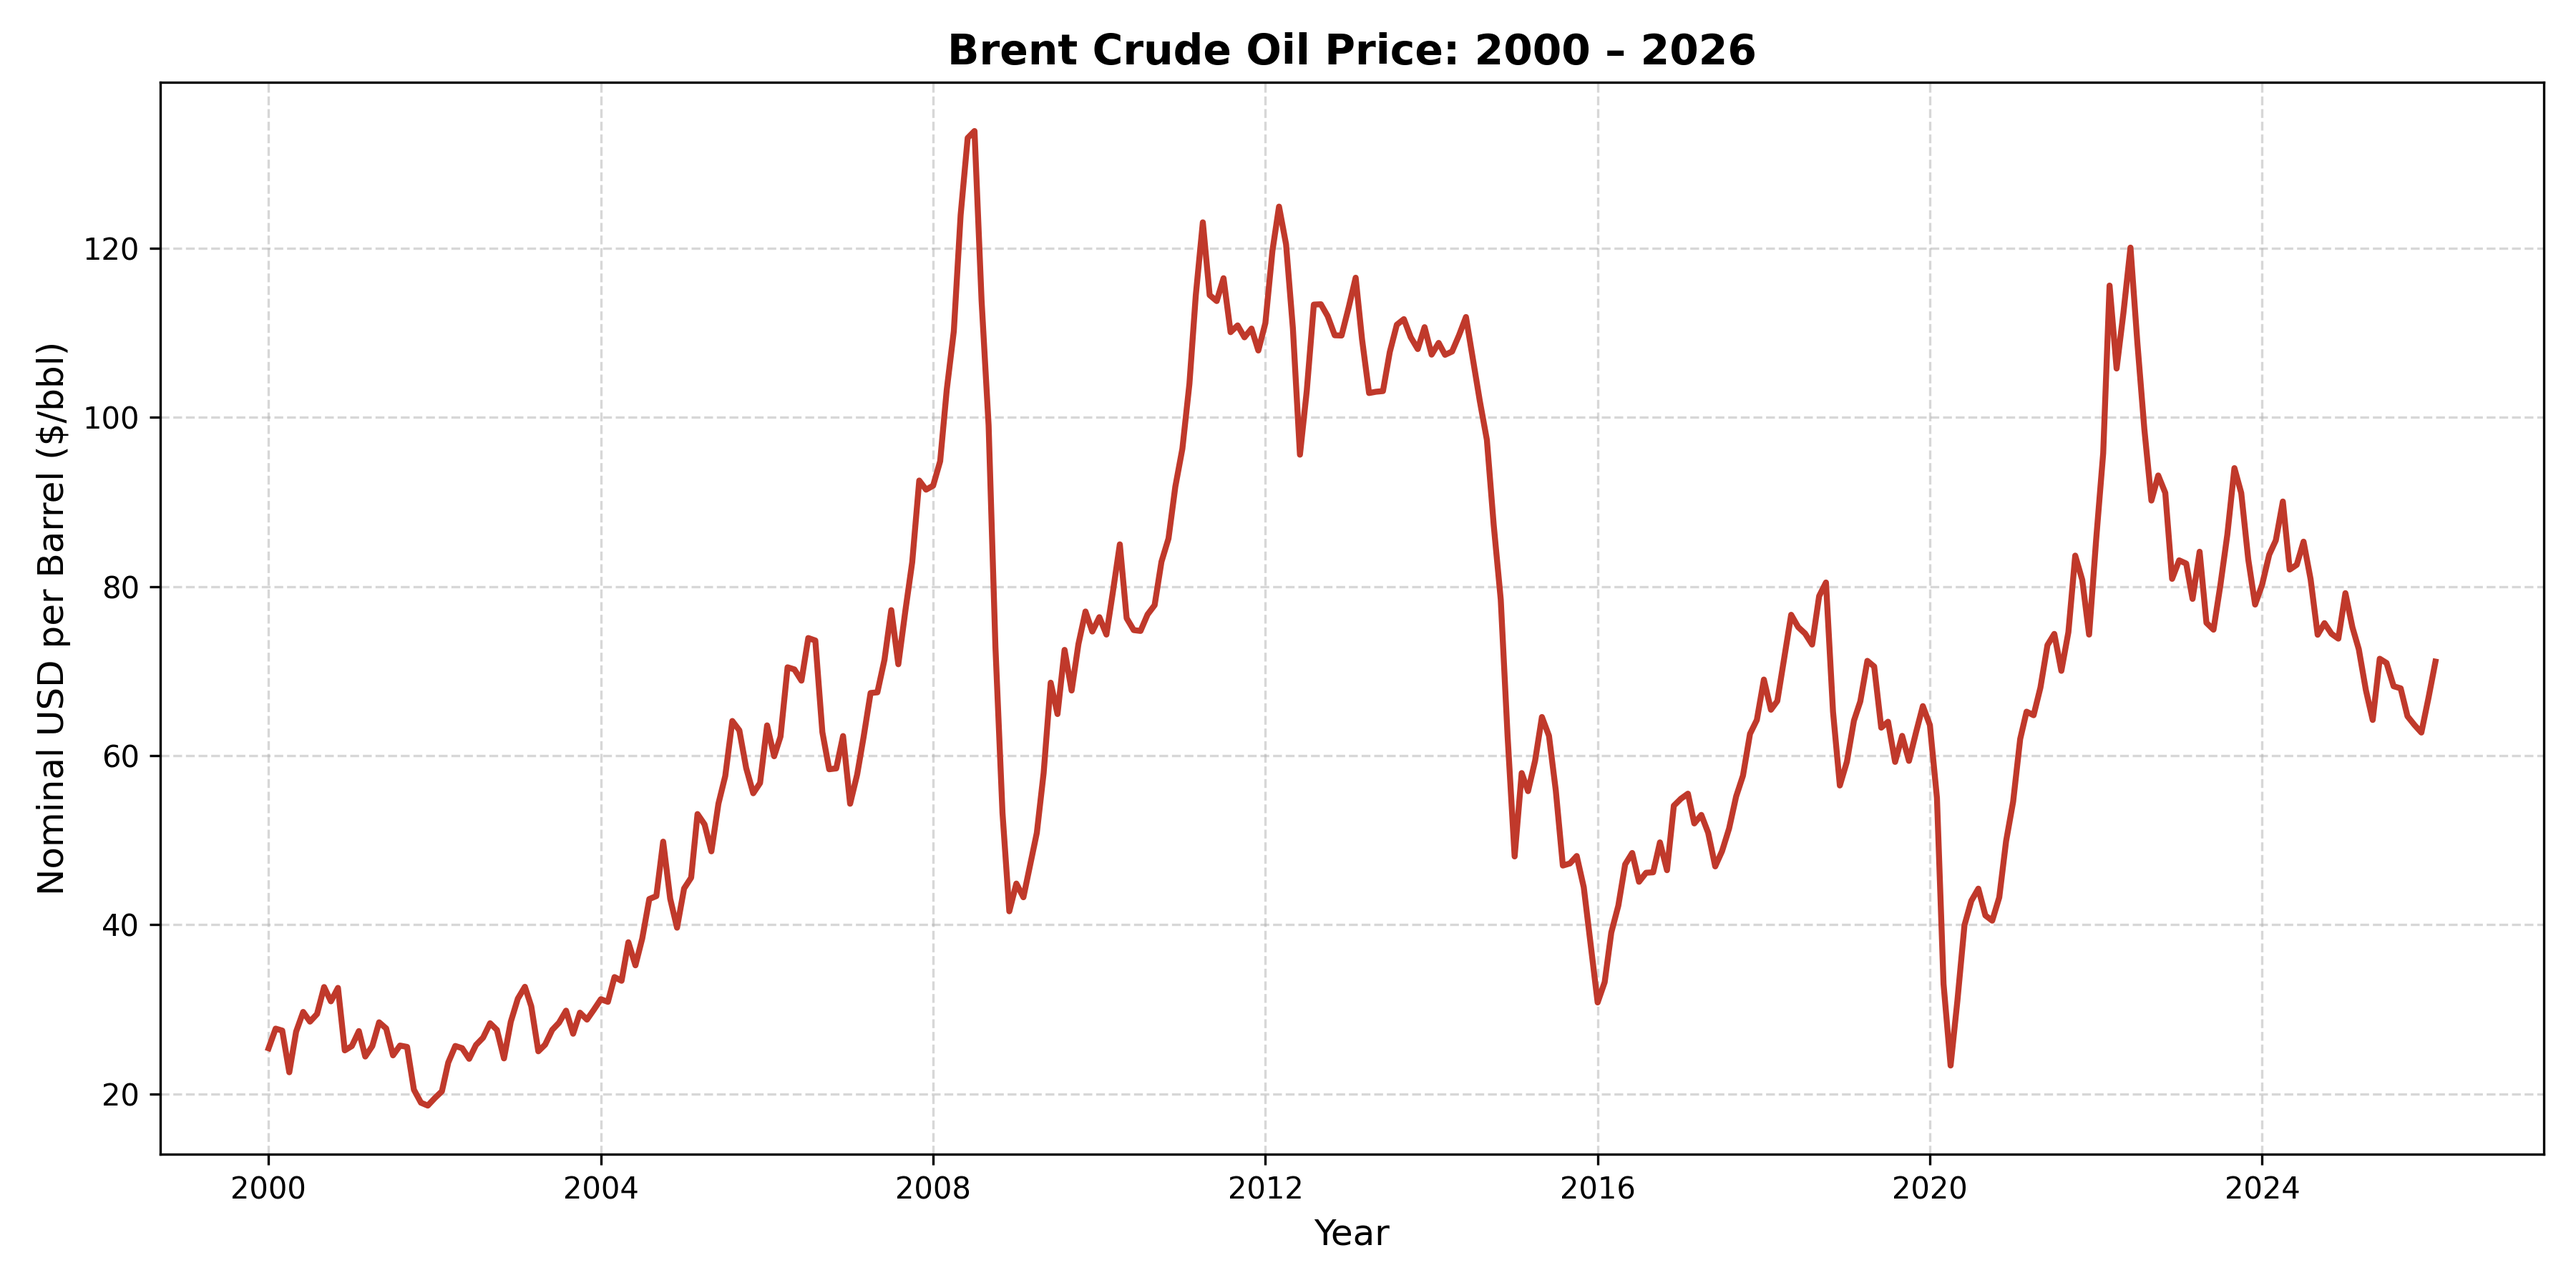
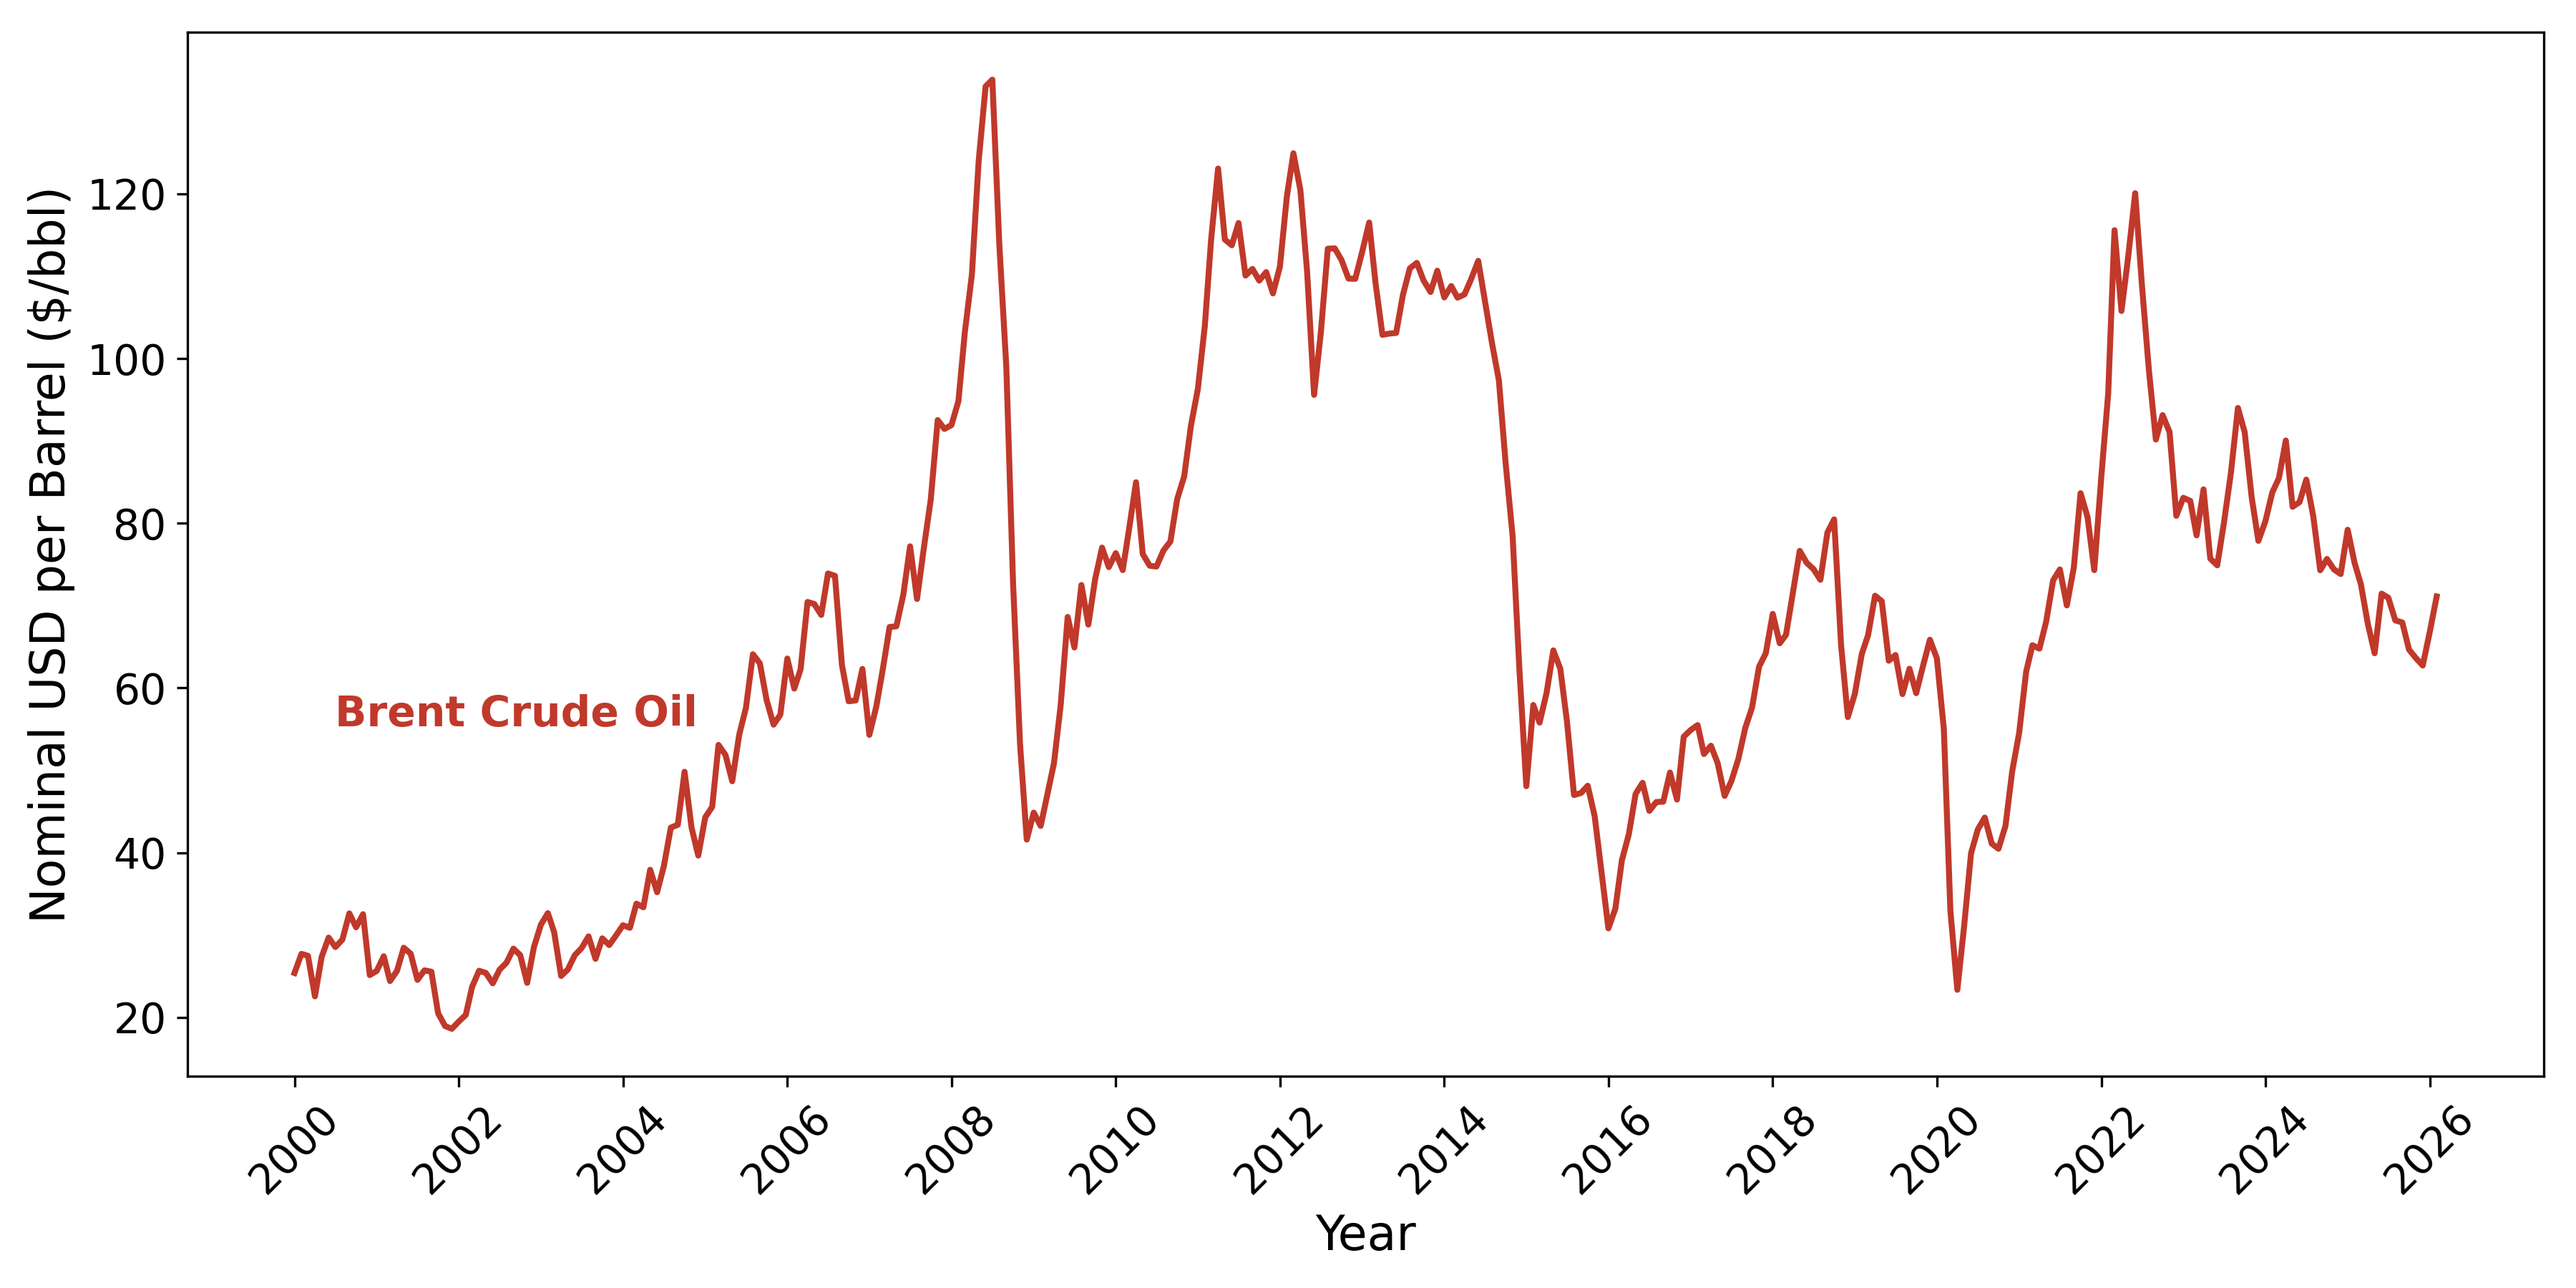
added new overlayed plot and changed others

diff --git a/GasPrices_2000-present.py b/GasPrices_2000-present.py
@@ -1,5 +1,6 @@
 import pandas as pd
 import matplotlib.pyplot as plt
+import matplotlib.dates as mdates
 
 # 1. Load the data
 file_path = '/Users/dannysalingerbrown/Desktop/Energy-Graphs-Misc/data/WorldBank_Commodity_Monthly.csv' 
@@ -10,7 +11,6 @@ df = df.rename(columns={df.columns[0]: 'Date'})
 df['Date'] = pd.to_datetime(df['Date'].str.replace('M', '-'), errors='coerce')
 
 # Target the US Natural Gas column specifically (Henry Hub)
-# Using the exact name from the World Bank dataset
 gas_col = 'Natural gas, US'
 df[gas_col] = pd.to_numeric(df[gas_col], errors='coerce')
 
@@ -21,30 +21,62 @@ df_filtered = df[df['Date'] >= '2000-01-01'].dropna(subset=[gas_col]).copy()
 # Using the standard energy density factor of 1.038 MMBtu per Mcf
 df_filtered['Gas_Mcf'] = df_filtered[gas_col] * 1.038
 
+# --- Grab the starting coordinates for our text labels ---
+# We use the very first date in the filtered dataset, plus a small date shift 
+label_x_date = df_filtered['Date'].iloc[0] + pd.Timedelta(days=180) 
+start_price_mmbtu = df_filtered[gas_col].iloc[0]
+start_price_mcf = df_filtered['Gas_Mcf'].iloc[0]
+
 # 4. Create and Save Graph 1 ($/MMBtu)
 plt.figure(figsize=(12, 6))
 plt.plot(df_filtered['Date'], df_filtered[gas_col], color='#2980b9', linewidth=2)
-plt.title('US Natural Gas Price (Henry Hub): 2000 – 2026', fontsize=14, fontweight='bold')
-plt.ylabel('Nominal USD per MMBtu ($/MMBtu)', fontsize=12)
-plt.xlabel('Year', fontsize=12)
-plt.grid(True, linestyle='--', alpha=0.5)
-plt.tight_layout()
 
-# Saving to your project folder
-plt.savefig('/Users/dannysalingerbrown/Desktop/Energy-Graphs-Misc/natgas_price_mmbtu.png', dpi=300)
+# Add text label above the start of the line (offset by +1 for the MMBtu scale)
+plt.text(label_x_date, start_price_mmbtu-1, 'Natural Gas (Henry Hub)', 
+         color='#2980b9', fontsize=14, fontweight='bold')
+
+# Set axis labels to be larger
+plt.ylabel('Nominal USD per MMBtu ($/MMBtu)', fontsize=16)
+plt.xlabel('Year', fontsize=16)
+
+# Format x-axis ticks: Every 2 years
+ax = plt.gca()
+ax.xaxis.set_major_locator(mdates.YearLocator(2))
+ax.xaxis.set_major_formatter(mdates.DateFormatter('%Y'))
+
+# Slant x-axis labels and make all tick markers larger
+plt.xticks(rotation=45)
+plt.tick_params(axis='both', which='major', labelsize=14)
+
+plt.tight_layout()
+# Save with transparent background
+plt.savefig('/Users/dannysalingerbrown/Desktop/Energy-Graphs-Misc/natgas_price_mmbtu.png', dpi=300, transparent=True)
 plt.show()
 
 # 5. Create and Save Graph 2 ($/Mcf)
 plt.figure(figsize=(12, 6))
 plt.plot(df_filtered['Date'], df_filtered['Gas_Mcf'], color='#27ae60', linewidth=2)
-plt.title('US Natural Gas Price ($/Mcf): 2000 – 2026', fontsize=14, fontweight='bold')
-plt.ylabel('Nominal USD per Thousand Cubic Feet ($/Mcf)', fontsize=12)
-plt.xlabel('Year', fontsize=12)
-plt.grid(True, linestyle='--', alpha=0.5)
-plt.tight_layout()
 
-# Saving to your project folder
-plt.savefig('/Users/dannysalingerbrown/Desktop/Energy-Graphs-Misc/natgas_price_mcf.png', dpi=300)
+# Add text label above the start of the line (offset by +1 for the Mcf scale)
+plt.text(label_x_date, start_price_mcf-1, 'Natural Gas (Henry Hub)', 
+         color='#27ae60', fontsize=14, fontweight='bold')
+
+# Set axis labels to be larger
+plt.ylabel('Nominal USD per Thousand Cubic Feet ($/Mcf)', fontsize=16)
+plt.xlabel('Year', fontsize=16)
+
+# Format x-axis ticks: Every 2 years
+ax2 = plt.gca()
+ax2.xaxis.set_major_locator(mdates.YearLocator(2))
+ax2.xaxis.set_major_formatter(mdates.DateFormatter('%Y'))
+
+# Slant x-axis labels and make all tick markers larger
+plt.xticks(rotation=45)
+plt.tick_params(axis='both', which='major', labelsize=14)
+
+plt.tight_layout()
+# Save with transparent background
+plt.savefig('/Users/dannysalingerbrown/Desktop/Energy-Graphs-Misc/natgas_price_mcf.png', dpi=300, transparent=True)
 plt.show()
 
 # Verify the final data points

diff --git a/CoalPrices_2000-present.py b/CoalPrices_2000-present.py
@@ -1,5 +1,6 @@
 import pandas as pd
 import matplotlib.pyplot as plt
+import matplotlib.dates as mdates
 
 # 1. Load the data
 file_path = '/Users/dannysalingerbrown/Desktop/Energy-Graphs-Misc/data/WorldBank_Commodity_Monthly.csv' 
@@ -16,30 +17,63 @@ df_filtered = df[df['Date'] >= '2000-01-01'].dropna(subset=['Coal, Australian'])
 # New conversion: $/mt divided by 20 MMBtu/mt
 df_filtered['Coal_MMBtu'] = df_filtered['Coal, Australian'] / 20
 
+# --- Grab the starting coordinates for our text labels ---
+# We will use the very first date in the filtered dataset, plus a small date shift 
+# so it doesn't hug the y-axis too tightly.
+label_x_date = df_filtered['Date'].iloc[0] + pd.Timedelta(days=180) 
+start_price_tonne = df_filtered['Coal, Australian'].iloc[0]
+start_price_mmbtu = df_filtered['Coal_MMBtu'].iloc[0]
+
 # 4. Create and Save Graph 1 ($/tonne)
 plt.figure(figsize=(12, 6))
 plt.plot(df_filtered['Date'], df_filtered['Coal, Australian'], color='#e67e22', linewidth=2)
-plt.title('Newcastle Coal Price Index: 2000 – 2026', fontsize=14, fontweight='bold')
-plt.ylabel('Nominal USD per Metric Ton ($/tonne)', fontsize=12)
-plt.xlabel('Year', fontsize=12)
-plt.grid(True, linestyle='--', alpha=0.5)
-plt.tight_layout()
 
-# Saving to your project folder
-plt.savefig('/Users/dannysalingerbrown/Desktop/Energy-Graphs-Misc/coal_price_tonne.png', dpi=300)
+# Add text label above the start of the line (offset by +15 for the tonne scale)
+plt.text(label_x_date, start_price_tonne + 40, 'Coal (Newcastle Index)', 
+         color='#e67e22', fontsize=14, fontweight='bold')
+
+# Set axis labels to be larger
+plt.ylabel('Nominal USD per Metric Ton ($/tonne)', fontsize=16)
+plt.xlabel('Year', fontsize=16)
+
+# Format x-axis ticks: Every 2 years
+ax = plt.gca()
+ax.xaxis.set_major_locator(mdates.YearLocator(2))
+ax.xaxis.set_major_formatter(mdates.DateFormatter('%Y'))
+
+# Slant x-axis labels and make all tick markers larger
+plt.xticks(rotation=45)
+plt.tick_params(axis='both', which='major', labelsize=14)
+
+plt.tight_layout()
+# Added transparent=True here
+plt.savefig('/Users/dannysalingerbrown/Desktop/Energy-Graphs-Misc/coal_price_tonne.png', dpi=300, transparent=True)
 plt.show()
 
 # 5. Create and Save Graph 2 ($/MMBtu)
 plt.figure(figsize=(12, 6))
 plt.plot(df_filtered['Date'], df_filtered['Coal_MMBtu'], color='#2980b9', linewidth=2)
-plt.title('Newcastle Coal Price Index ($/MMBtu): 2000 – 2026', fontsize=14, fontweight='bold')
-plt.ylabel('Nominal USD per MMBtu ($/MMBtu)', fontsize=12)
-plt.xlabel('Year', fontsize=12)
-plt.grid(True, linestyle='--', alpha=0.5)
-plt.tight_layout()
 
-# Saving to your project folder
-plt.savefig('/Users/dannysalingerbrown/Desktop/Energy-Graphs-Misc/coal_price_mmbtu.png', dpi=300)
+# Add text label above the start of the line (offset by +0.75 for the MMBtu scale)
+plt.text(label_x_date, start_price_mmbtu + 2, 'Coal (Newcastle Index)', 
+         color='#2980b9', fontsize=14, fontweight='bold')
+
+# Set axis labels to be larger
+plt.ylabel('Nominal USD per MMBtu ($/MMBtu)', fontsize=16)
+plt.xlabel('Year', fontsize=16)
+
+# Format x-axis ticks: Every 2 years
+ax2 = plt.gca()
+ax2.xaxis.set_major_locator(mdates.YearLocator(2))
+ax2.xaxis.set_major_formatter(mdates.DateFormatter('%Y'))
+
+# Slant x-axis labels and make all tick markers larger
+plt.xticks(rotation=45)
+plt.tick_params(axis='both', which='major', labelsize=14)
+
+plt.tight_layout()
+# Added transparent=True here
+plt.savefig('/Users/dannysalingerbrown/Desktop/Energy-Graphs-Misc/coal_price_mmbtu.png', dpi=300, transparent=True)
 plt.show()
 
 # Verify the final data points

diff --git a/OilPrices_2000-present.py b/OilPrices_2000-present.py
@@ -1,5 +1,6 @@
 import pandas as pd
 import matplotlib.pyplot as plt
+import matplotlib.dates as mdates
 
 # 1. Load the data
 file_path = '/Users/dannysalingerbrown/Desktop/Energy-Graphs-Misc/data/WorldBank_Commodity_Monthly.csv' 
@@ -18,30 +19,62 @@ df_filtered = df[df['Date'] >= '2000-01-01'].dropna(subset=['Crude oil, Brent'])
 # Conversion: $/bbl divided by 5 MMBtu/bbl
 df_filtered['Oil_MMBtu'] = df_filtered['Crude oil, Brent'] / 5
 
+# --- Grab the starting coordinates for our text labels ---
+# We use the very first date in the filtered dataset, plus a small date shift 
+label_x_date = df_filtered['Date'].iloc[0] + pd.Timedelta(days=180) 
+start_price_bbl = df_filtered['Crude oil, Brent'].iloc[0]
+start_price_mmbtu = df_filtered['Oil_MMBtu'].iloc[0]
+
 # 4. Create and Save Graph 1 ($/barrel)
 plt.figure(figsize=(12, 6))
 plt.plot(df_filtered['Date'], df_filtered['Crude oil, Brent'], color='#c0392b', linewidth=2)
-plt.title('Brent Crude Oil Price: 2000 – 2026', fontsize=14, fontweight='bold')
-plt.ylabel('Nominal USD per Barrel ($/bbl)', fontsize=12)
-plt.xlabel('Year', fontsize=12)
-plt.grid(True, linestyle='--', alpha=0.5)
-plt.tight_layout()
 
-# Saving to your project folder
-plt.savefig('/Users/dannysalingerbrown/Desktop/Energy-Graphs-Misc/oil_price_bbl.png', dpi=300)
+# Add text label above the start of the line (offset by +10 for the bbl scale)
+plt.text(label_x_date, start_price_bbl + 30, 'Brent Crude Oil', 
+         color='#c0392b', fontsize=14, fontweight='bold')
+
+# Set axis labels to be larger
+plt.ylabel('Nominal USD per Barrel ($/bbl)', fontsize=16)
+plt.xlabel('Year', fontsize=16)
+
+# Format x-axis ticks: Every 2 years
+ax = plt.gca()
+ax.xaxis.set_major_locator(mdates.YearLocator(2))
+ax.xaxis.set_major_formatter(mdates.DateFormatter('%Y'))
+
+# Slant x-axis labels and make all tick markers larger
+plt.xticks(rotation=45)
+plt.tick_params(axis='both', which='major', labelsize=14)
+
+plt.tight_layout()
+# Save with transparent background
+plt.savefig('/Users/dannysalingerbrown/Desktop/Energy-Graphs-Misc/oil_price_bbl.png', dpi=300, transparent=True)
 plt.show()
 
 # 5. Create and Save Graph 2 ($/MMBtu)
 plt.figure(figsize=(12, 6))
 plt.plot(df_filtered['Date'], df_filtered['Oil_MMBtu'], color='#8e44ad', linewidth=2)
-plt.title('Brent Crude Oil Price ($/MMBtu): 2000 – 2026', fontsize=14, fontweight='bold')
-plt.ylabel('Nominal USD per MMBtu ($/MMBtu)', fontsize=12)
-plt.xlabel('Year', fontsize=12)
-plt.grid(True, linestyle='--', alpha=0.5)
-plt.tight_layout()
 
-# Saving to your project folder
-plt.savefig('/Users/dannysalingerbrown/Desktop/Energy-Graphs-Misc/oil_price_mmbtu.png', dpi=300)
+# Add text label above the start of the line (offset by +2 for the MMBtu scale)
+plt.text(label_x_date, start_price_mmbtu + 6, 'Brent Crude Oil', 
+         color='#8e44ad', fontsize=14, fontweight='bold')
+
+# Set axis labels to be larger
+plt.ylabel('Nominal USD per MMBtu ($/MMBtu)', fontsize=16)
+plt.xlabel('Year', fontsize=16)
+
+# Format x-axis ticks: Every 2 years
+ax2 = plt.gca()
+ax2.xaxis.set_major_locator(mdates.YearLocator(2))
+ax2.xaxis.set_major_formatter(mdates.DateFormatter('%Y'))
+
+# Slant x-axis labels and make all tick markers larger
+plt.xticks(rotation=45)
+plt.tick_params(axis='both', which='major', labelsize=14)
+
+plt.tight_layout()
+# Save with transparent background
+plt.savefig('/Users/dannysalingerbrown/Desktop/Energy-Graphs-Misc/oil_price_mmbtu.png', dpi=300, transparent=True)
 plt.show()
 
 # Verify the final data points

diff --git a/fuelprices_overlay_2000-presesnt.py b/fuelprices_overlay_2000-presesnt.py
@@ -1,0 +1,68 @@
+import pandas as pd
+import matplotlib.pyplot as plt
+import matplotlib.dates as mdates
+
+# 1. Load the data
+file_path = '/Users/dannysalingerbrown/Desktop/Energy-Graphs-Misc/data/WorldBank_Commodity_Monthly.csv' 
+df = pd.read_csv(file_path, skiprows=4)
+
+# 2. Clean up columns and dates
+df = df.rename(columns={df.columns[0]: 'Date'})
+df['Date'] = pd.to_datetime(df['Date'].str.replace('M', '-'), errors='coerce')
+
+# Target the specific columns based on the World Bank Pink Sheet
+oil_col = 'Crude oil, Brent'
+coal_col = 'Coal, Australian'
+gas_col = 'Natural gas, US'
+
+# Ensure all target columns are numeric
+for col in [oil_col, coal_col, gas_col]:
+    df[col] = pd.to_numeric(df[col], errors='coerce')
+
+# 3. Filter (2000 to present) and drop rows missing any of our 3 fuels
+df_filtered = df[df['Date'] >= '2000-01-01'].copy()
+df_filtered = df_filtered.dropna(subset=[oil_col, coal_col, gas_col])
+
+# 4. Standardize all prices to $/MMBtu
+# Gas is natively in $/MMBtu
+df_filtered['Gas_MMBtu'] = df_filtered[gas_col]
+
+# Oil: Updated to 5 MMBtu per barrel
+df_filtered['Oil_MMBtu'] = df_filtered[oil_col] / 5.0
+
+# Coal: Updated to 26 MMBtu per metric ton
+df_filtered['Coal_MMBtu'] = df_filtered[coal_col] / 26.0
+
+# 5. Create and Save the Combined Graph
+plt.figure(figsize=(14, 7))
+
+# Plotting each fuel with distinct colors
+plt.plot(df_filtered['Date'], df_filtered['Oil_MMBtu'], label='Brent Crude', color='#c0392b', linewidth=2)
+plt.plot(df_filtered['Date'], df_filtered['Coal_MMBtu'], label='Australian Coal', color='#7f8c8d', linewidth=2)
+plt.plot(df_filtered['Date'], df_filtered['Gas_MMBtu'], label='US Natural Gas', color='#2980b9', linewidth=2)
+
+# Set axis labels to be larger
+plt.ylabel('Nominal USD per MMBtu ($/MMBtu)', fontsize=16)
+plt.xlabel('Year', fontsize=16)
+
+# Add legend (enlarged slightly to match the new axis sizes)
+plt.legend(loc='upper left', fontsize=14)
+
+# Format x-axis ticks: Every 2 years
+ax = plt.gca()
+ax.xaxis.set_major_locator(mdates.YearLocator(2))
+ax.xaxis.set_major_formatter(mdates.DateFormatter('%Y'))
+
+# Slant x-axis labels and make all tick markers larger
+plt.xticks(rotation=45)
+plt.tick_params(axis='both', which='major', labelsize=14)
+
+plt.tight_layout()
+
+# Save to your project folder with transparent background
+plt.savefig('/Users/dannysalingerbrown/Desktop/Energy-Graphs-Misc/combined_fuels_mmbtu.png', dpi=300, transparent=True)
+plt.show()
+
+# Verify the final aligned data points
+print("Latest Data Points ($/MMBtu):")
+print(df_filtered[['Date', 'Oil_MMBtu', 'Coal_MMBtu', 'Gas_MMBtu']].tail())
